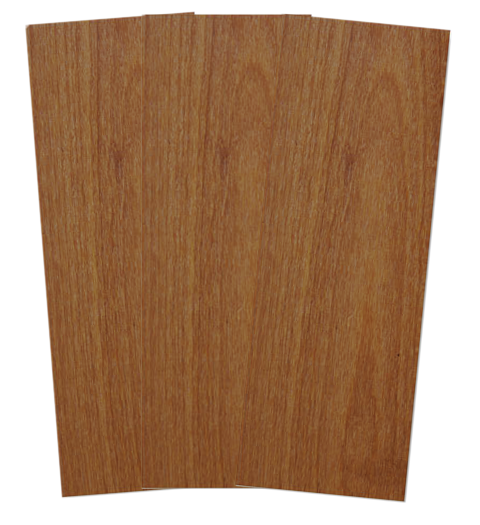
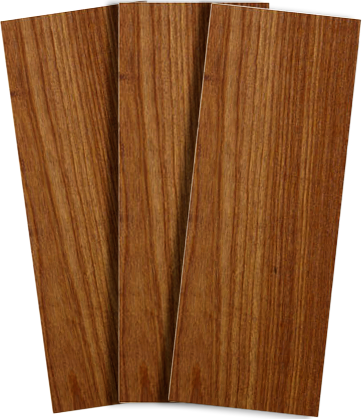
cambios madera

diff --git a/src/componentes/Norx.jsx b/src/componentes/Norx.jsx
@@ -8,6 +8,7 @@ import heart from "../assets/norxSubCategoria/Heart_Norx.png"
 import heart1 from "../assets/norxSubCategoria/settings_Norx.png"
 import heart2 from "../assets/norxSubCategoria/recycle_norx.png"
 import heart3 from "../assets/norxSubCategoria/Scales_norx.png"
+import ashMadera from "../assets/norxSubCategoria/ASH/madera_Ash.png"
 
 import arrow from '../assets/norxSubCategoria/arrow.png'
 import norx1 from '../assets/norxSubCategoria/revestimientos.png'
@@ -49,13 +50,15 @@ const Norx = () => {
 
             <section className='sub-categorias--informacion'>
                 <div className="design-container">
-                    <div className="wood-image"></div>
+                    <div >
+                       <img className="wood-image-Ash" src={ashMadera}  />
+                    </div>
 
                     <div className="circle circle-left">
-                        <p className='circle-texto-left'>Vida útil más de 50 años.</p>
                         <div className='circle-imagenes'>
                             <img src={heart} alt="" />
                         </div>
+                        <p className='circle-texto-left'>Vida útil más de 50 años.</p>
                     </div>
                     <div className="circle circle-right">
                         <div className='circle-imagenes'>
@@ -64,10 +67,11 @@ const Norx = () => {
                         <p>95% material reciclado.</p>
                     </div>
                     <div className="circle circle-bottom-left">
-                        <p>Mínimo Mantenimiento.</p>
+                       
                         <div className='circle-imagenes'>
                             <img src={heart1} alt="" />
                         </div>
+                        <p>Mínimo Mantenimiento.</p>
                     </div>
                     <div className="circle circle-bottom-right">
                         <div className='circle-imagenes'>

diff --git a/src/componentes/CumaruMaderasTropicales.jsx b/src/componentes/CumaruMaderasTropicales.jsx
@@ -10,6 +10,7 @@ import heart1 from "../assets/norxSubCategoria/virus_ipe.png"
 import heart2 from "../assets/norxSubCategoria/storm_ipe.png"
 import heart3 from "../assets/norxSubCategoria/lab_cumaru.png"
 import heart4 from "../assets/norxSubCategoria/fire_ipe.png"
+import ayousMadera from "../assets/norxSubCategoria/ayous/maderas_ayous.png"
 
 import arrow from '../assets/norxSubCategoria/arrow.png'
 import norx1 from '../assets/norxSubCategoria/etiquetas_cumaru_ipe.png'
@@ -50,7 +51,9 @@ const IpeMaderasTropicales = () => {
 
         <section className='sub-categorias--informacion'>
             <div className="design-container">
-                <div className="wood-image-ipe"></div>
+                <div >
+                  <img className='wood-image-ipe' src={ayousMadera} alt="" />
+                </div>
 
                 <div className="circle circle-left">
                   
@@ -67,13 +70,13 @@ const IpeMaderasTropicales = () => {
                     moho y hongos.</p>
                 </div>
                 <div className="circle circle-top">
-                
+                <p className='circle-texto-left'>Resistencia al fuego clase
+                                                A, comparado al acero y
+                                                hormigón.</p>
                     <div className='circle-imagenes'>
                         <img src={heart4} alt="" />
                     </div>
-                    <p className='circle-texto-left'>Resistencia al fuego clase
-                                                A, comparado al acero y
-                                                hormigón.</p>
+                  
                 </div>
                 <div className="circle circle-bottom-left">
                  

diff --git a/src/componentes/IpeMaderasTropicales.jsx b/src/componentes/IpeMaderasTropicales.jsx
@@ -10,6 +10,7 @@ import heart1 from "../assets/norxSubCategoria/virus_ipe.png"
 import heart2 from "../assets/norxSubCategoria/storm_ipe.png"
 import heart3 from "../assets/norxSubCategoria/insect_ipe.png"
 import heart4 from "../assets/norxSubCategoria/fire_ipe.png"
+import ayousMadera from "../assets/norxSubCategoria/ayous/maderas_ayous.png"
 
 import arrow from '../assets/norxSubCategoria/arrow.png'
 import norx1 from '../assets/norxSubCategoria/etiquetas_cumaru_ipe.png'
@@ -50,7 +51,9 @@ const IpeMaderasTropicales = () => {
 
         <section className='sub-categorias--informacion'>
             <div className="design-container">
-                <div className="wood-image-ipe"></div>
+                <div >
+                  <img className='wood-image-ipe' src={ayousMadera} alt="" />
+                </div>
 
                 <div className="circle circle-left">
                   
@@ -67,12 +70,13 @@ const IpeMaderasTropicales = () => {
                     hongos.</p>
                 </div>
                 <div className="circle circle-top">
+                <p className='circle-texto-left'>Resistencia al fuego clase
+                                                A, comparado al acero y
+                                                hormigón.</p>
                     <div className='circle-imagenes'>
                         <img src={heart4} alt="" />
                     </div>
-                    <p className='circle-texto-left'>Resistencia al fuego clase
-                                                A, comparado al acero y
-                                                hormigón.</p>
+
                 </div>
                 <div className="circle circle-bottom-left">
                   

diff --git a/src/Css/subCategorias.css b/src/Css/subCategorias.css
@@ -166,12 +166,9 @@ margin-top: 190px;
 .wood-image-ipe{
   display: block;
   margin: auto;
-  width: 500px;
-  height: 500px;
-  background-image: url('../assets/norxSubCategoria/ipe_madera.png');
-  background-position: center;
-  background-repeat: no-repeat;
-  background-size: cover;
+  width: 450px;
+  height: 510px;
+
 }
 .wood-image-Ayous{
   display: block;
@@ -244,6 +241,8 @@ margin-top: 190px;
   right: 350px;
 }
 .circle-top{
+  display: flex;
+  flex-direction: row-reverse;
   position: absolute;
   top: -180px;
   left: 44%;
